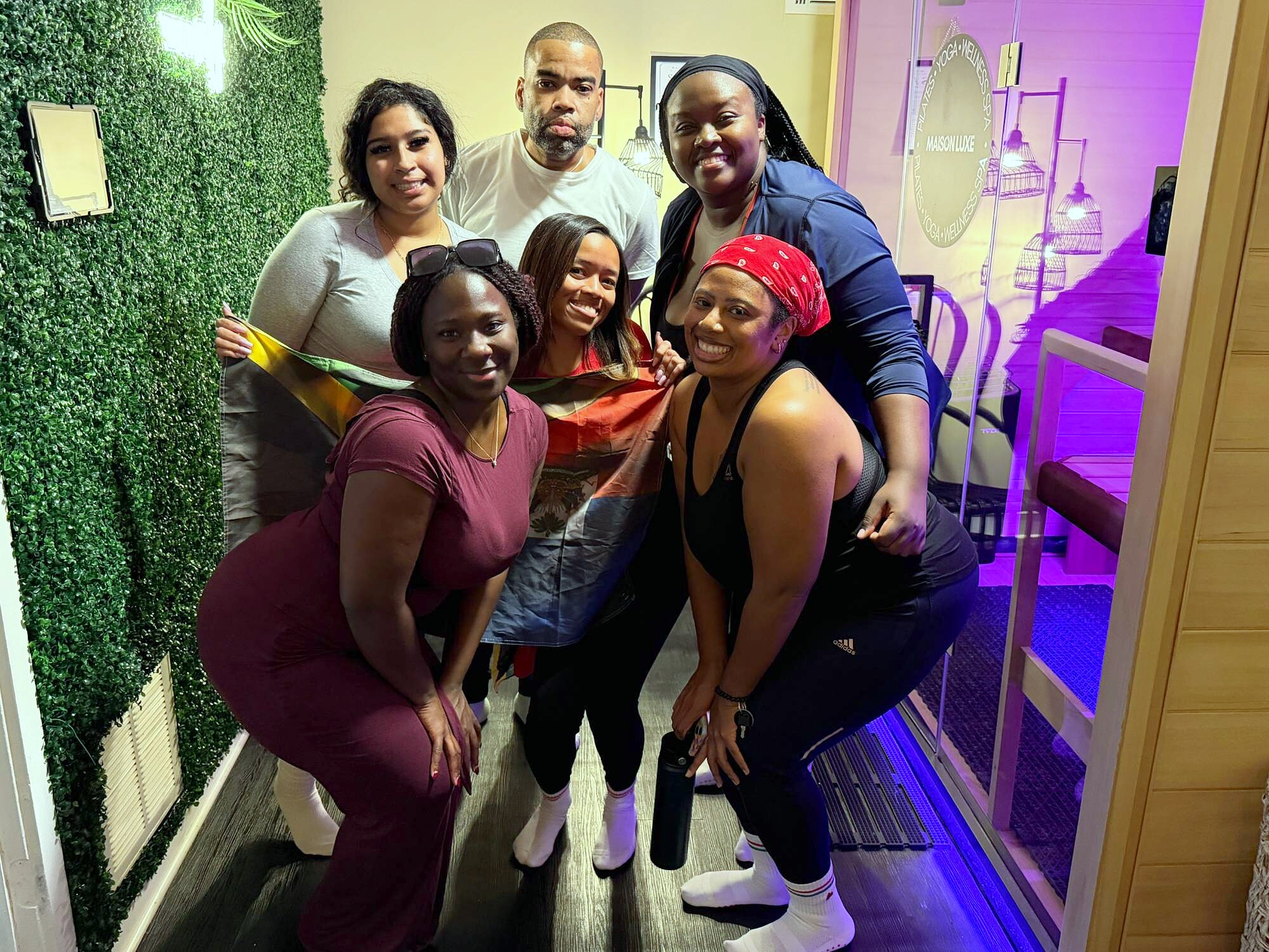
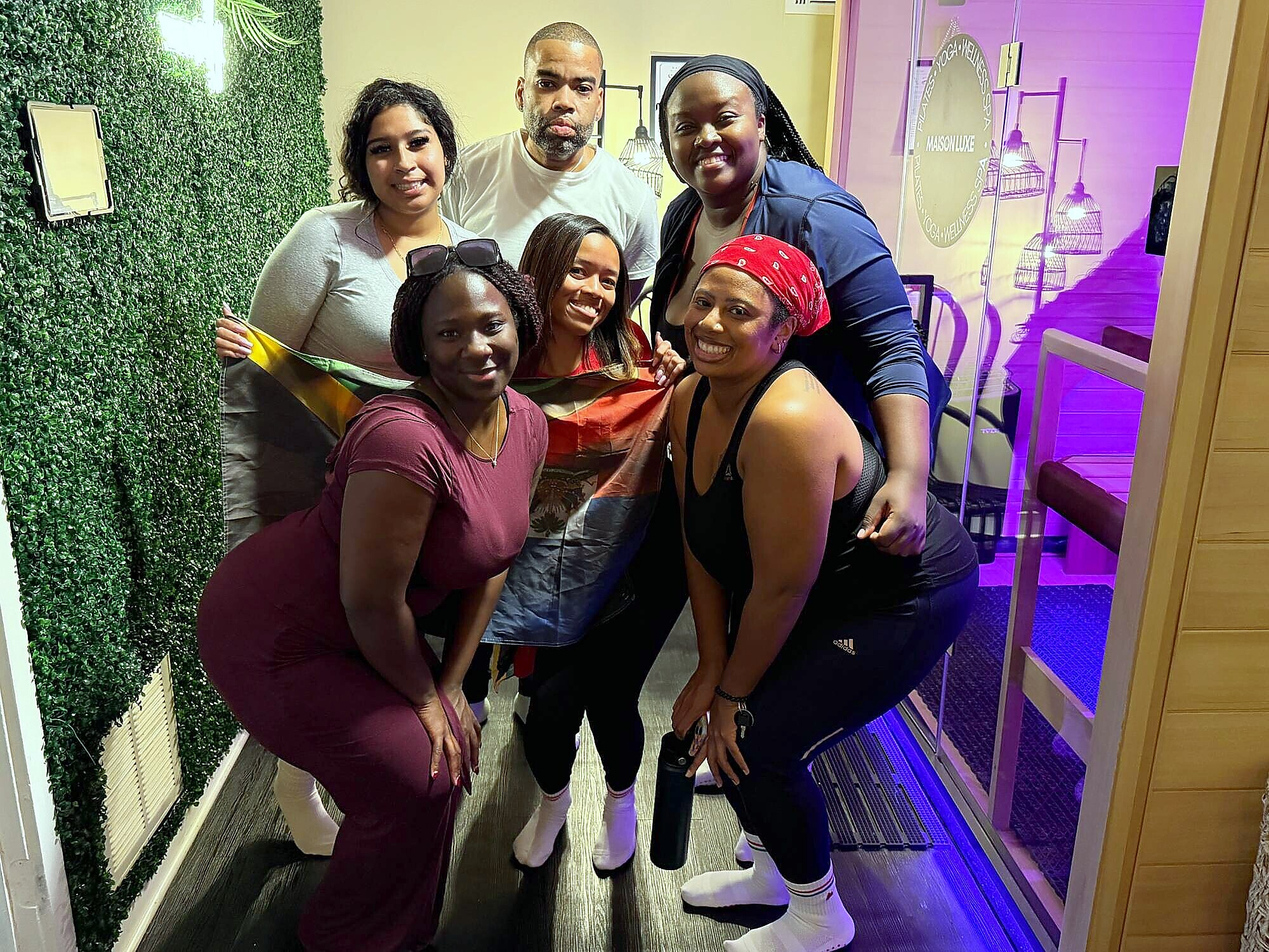
Sharpen the Nov 21 photos, and stop the email promising what is already up (#636)
SHARPENING. The first pass used a plain unsharp mask, which raises
detail and noise equally — wrong tool for photos shot this dark, where
most of what it lifts in skin and shadow is noise. Replaced with an
adaptive sharpen, which works on edges and leaves flat areas alone.
Edge energy is up about 25% again on all four, on top of the 25-30%
the first pass already gained over the originals, and the clipping
stays small: highlights at most 1.0%, shadows at most 1.9%, against
the 6.3% of crushed black the untouched originals carried.

Worth recording why they still are not crisp. What arrived is not what
the camera shot: 2000x1500 at quality 70 with every EXIF tag stripped,
where a phone original would be about 4032x3024 and carry its make,
ISO and exposure. These are downscaled, recompressed copies holding
roughly a quarter of the original pixels, and no amount of sharpening
puts back detail that was thrown away before it got here. The fix is
the camera-roll originals, not a stronger filter.

THE EMAIL. The Photos & Recap box still told people both would "go up
soon". Both have been up since this morning, so it now says so and
links to the homepage, where the recap and the gallery sit in Past
Events. The comment beside it says to put the old wording back if this
template is ever sent on the night of an event.

Verified: gallery cover and lightbox still render the full 2000x1500
image with no 404s or page errors, all 28 script blocks parse, and all
[…]

diff --git a/RIDDIM_KOMPA_BROOKLYN_THANKYOU_TEMPLATE.html b/RIDDIM_KOMPA_BROOKLYN_THANKYOU_TEMPLATE.html
@@ -127,8 +127,14 @@
               </tr>
               <tr>
                 <td style="padding:16px 18px;">
+                  <!-- This used to say they "go up soon". They are up — the
+                       recap video and the photo gallery both sit in Past
+                       Events on the homepage — so it now says so and links
+                       there. If this template is ever sent on the night of an
+                       event, before the recap is cut, put the old wording
+                       back rather than pointing people at nothing. -->
                   <p style="font-family:'Helvetica Neue',Arial,sans-serif;font-size:16px;line-height:1.6;color:#2a2219;margin:0 0 10px 0;">
-                    Photos and the recap video go up soon.
+                    The recap video and the photos are up &mdash; <a href="https://book.auricmovement.com" style="color:#b8302a;font-weight:bold;text-decoration:underline;">have a look</a>.
                   </p>
                   <p style="font-family:'Helvetica Neue',Arial,sans-serif;font-size:16px;line-height:1.6;color:#2a2219;margin:0;">
                     Posting yours? Tag <strong style="color:#b8302a;">@auricmovement</strong> and <strong style="color:#b8302a;">@maisonluxepilatesandwellness</strong> &mdash; we&rsquo;ll repost.
